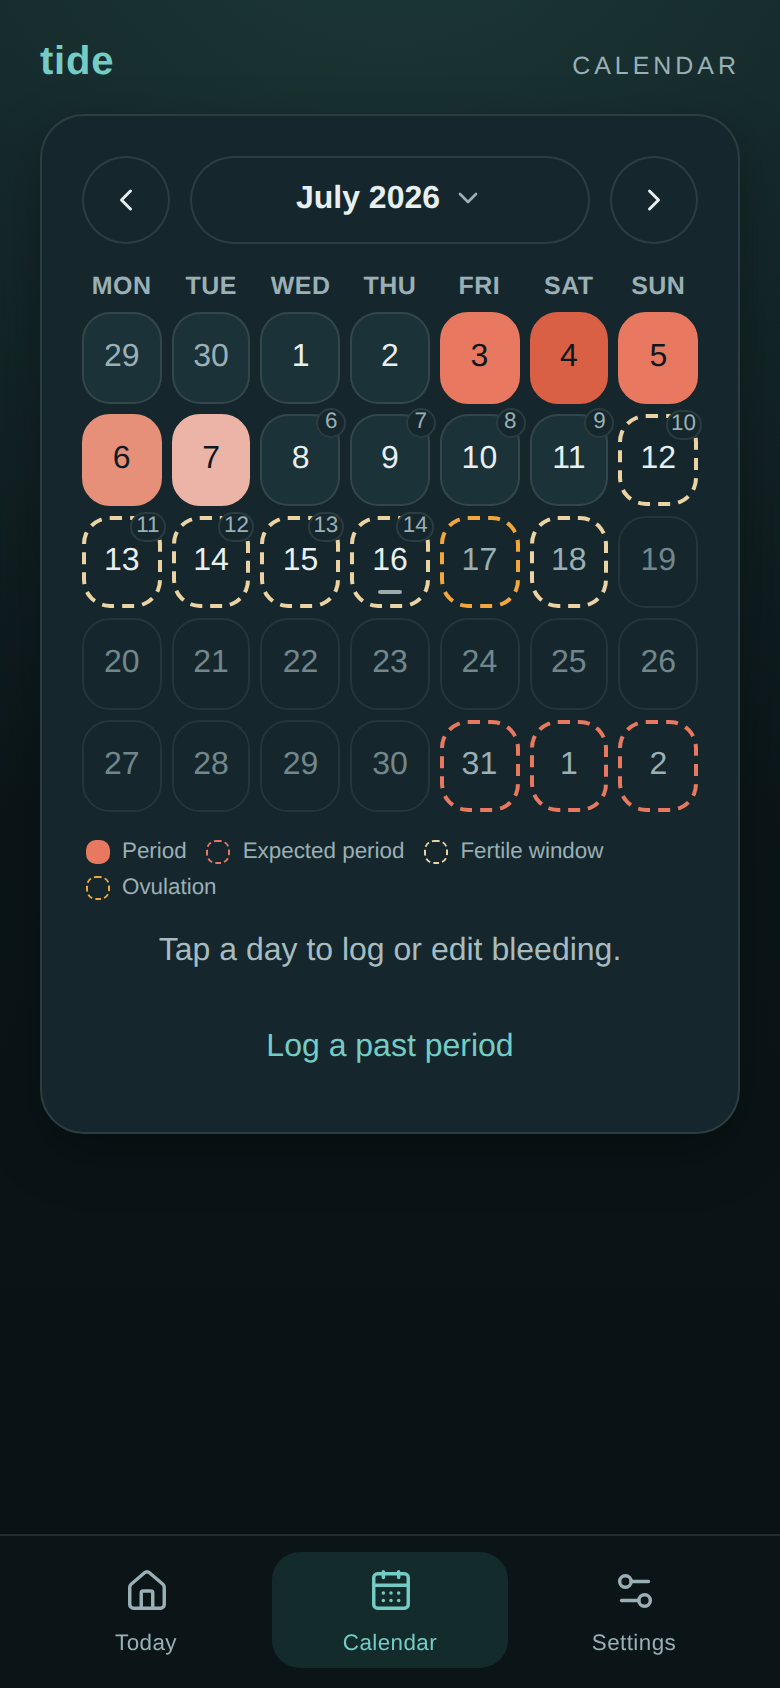
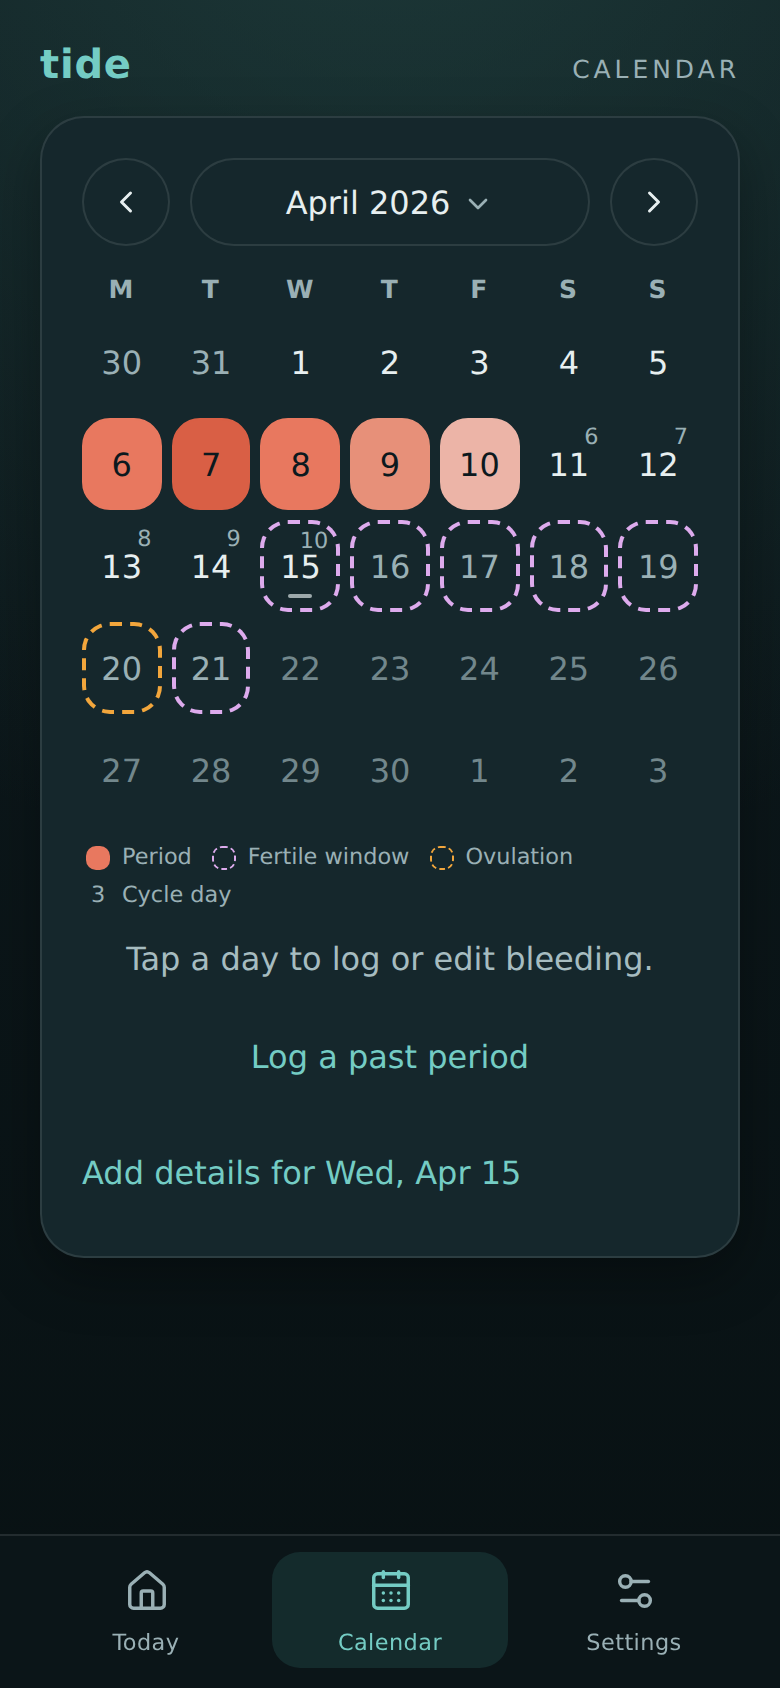
feat(theme): violet fertile window and a brighter ovulation orange
- A yellow outline dark enough for 3:1 on the white card turns olive or brown, and the light-mode fertile (#8a7a20) and ovulation (#c2610f) outlines looked alike. Fertile is now violet (#b454d4, lilac #ddabed in dark) and ovulation #d45d00. Each outline still clears 3.9:1 on the card and 3.3:1 on the darkest ground.
- The README Calendar screenshots show the new grid and colours.
- CycleDial uses Math.max for the preview's start index (biome useMathMinMax).

diff --git a/src/styles/tokens.css b/src/styles/tokens.css
@@ -41,14 +41,15 @@
     /* Cycle phases */
     --cycle-period: var(--bleed);
     --cycle-ovulation: #e8a24b;
-    --cycle-fertile: #f4d6a8;
+    --cycle-fertile: #ecd2f5;
     --cycle-idle: rgba(84, 123, 121, 0.4);
-    /* Estimates are dashed outlines, never fills. Sand and amber are too pale
+    /* Estimates are dashed outlines, never fills. Lilac and amber are too pale
        for a line on the light ground, so their outlines take deeper shades:
-       each clears 4.1:1 on the white card and 3.4:1 on the darkest ground. */
+       each clears 3.9:1 on the white card and 3.3:1 on the darkest ground. A
+       yellow that dark turns brown, so the fertile window is violet. */
     --estimate-period: var(--bleed-strong);
-    --estimate-fertile: #8a7a20;
-    --estimate-ovulation: #c2610f;
+    --estimate-fertile: #b454d4;
+    --estimate-ovulation: #d45d00;
     /* Text on the warm cycle fills — they stay light in both themes, so this
        stays near-black in both themes (not overridden in the dark block) to
        clear AA on coral, sand, and amber. */
@@ -126,10 +127,10 @@
     --flow-medium: #e2745c;
     --flow-heavy: #d95f45;
 
-    /* Fertile a pale warm sand, ovulation a saturated amber — clearly apart
-       from each other and from coral on the dark ground. */
+    /* Fertile a pale lilac, ovulation a saturated amber: clearly apart from
+       each other and from coral on the dark ground. */
     --cycle-ovulation: #f2a63c;
-    --cycle-fertile: #ecd3a4;
+    --cycle-fertile: #ddabed;
     --cycle-idle: rgba(194, 238, 234, 0.3);
     /* On the dark ground the fills themselves are bright enough for a line. */
     --estimate-period: var(--bleed);

diff --git a/src/features/today/CycleDial.tsx b/src/features/today/CycleDial.tsx
@@ -253,7 +253,7 @@ export function CycleDial({ forecast, phaseLabel, intensityByDay, today }: Cycle
 
   function stepPreview(step: number) {
     setPreviewState(({ index }) => {
-      const from = typeof index === "number" ? index : currentIndex >= 0 ? currentIndex : 0;
+      const from = typeof index === "number" ? index : Math.max(currentIndex, 0);
       return {
         index: Math.min(Math.max(from + step, 0), maxIndex),
         angle: null,
@@ -334,7 +334,7 @@ export function CycleDial({ forecast, phaseLabel, intensityByDay, today }: Cycle
       <CycleLegend
         className="cycle-dial__legend"
         // The key only names colours the ring actually shows: no coral dot
-        // over an all-grey first-run ring, no sand or amber without an
+        // over an all-grey first-run ring, no lilac or amber without an
         // ovulation estimate.
         showPeriod={Object.keys(intensityByDay).length > 0}
         showExpected={hasPrediction}

diff --git a/DESIGN.md b/DESIGN.md
@@ -12,9 +12,9 @@ colors:
   flow-spotting: "#f0c1b6"
   flow-light: "#e89a88"
   amber: "#e8a24b"
-  sand: "#f4d6a8"
-  amber-line: "#c2610f"
-  sand-line: "#8a7a20"
+  lilac: "#ecd2f5"
+  amber-line: "#d45d00"
+  violet-line: "#b454d4"
   sea-idle: "rgba(84, 123, 121, 0.4)"
   ink: "#14303a"
   ink-soft: "#486069"
@@ -138,7 +138,7 @@ components:
 Picture a still pool of cool water with white surfaces floating on it. Navigation, labels
 and controls are calm teal and sea-grey, and cards sit on a faint gradient ground under
 wide, soft shadows. Only one warm colour breaks the calm: coral, for the body's own signal
-and nothing else. Sand and amber sit next to it, for the fertile window and ovulation.
+and nothing else. Lilac and amber sit next to it, for the fertile window and ovulation.
 
 Nothing is in a hurry: big rounded corners, 160 ms transitions, and one expressive element,
 the cycle dial on Today. Everything else stays in the background so the eye lands there
@@ -173,10 +173,11 @@ first. Dark mode is the same pool at night, tuned again rather than inverted.
 ### Tertiary
 
 - **Amber** (`amber`): the ovulation estimate.
-- **Sand** (`sand`): the fertile window.
-- **Amber Line** / **Sand Line** (`amber-line`, `sand-line`): the same two estimates as
-  outlines in the light theme, where amber and sand are too pale for a line. Dark uses
-  amber and sand themselves.
+- **Lilac** (`lilac`): the fertile window.
+- **Amber Line** / **Violet Line** (`amber-line`, `violet-line`): the same two estimates as
+  outlines in the light theme, where amber and lilac are too pale for a line. A yellow dark
+  enough for a 3:1 line turns brown, which is why the fertile window is violet. Dark uses
+  amber and a brighter lilac themselves.
 - **Sea Idle** (`sea-idle`): the ordinary days on the dial ring.
 
 ### Neutral
@@ -187,7 +188,7 @@ first. Dark mode is the same pool at night, tuned again rather than inverted.
   sizes.
 - **Ink on Solid**: white, on the solid deep-tide fills (the commit button, a switch that
   is on). Deep tide stays deep in dark mode, so this stays white too.
-- **Ink on Fill**: near-black text on coral, sand and amber. One value for both themes,
+- **Ink on Fill**: near-black text on coral, lilac and amber. One value for both themes,
   because those fills stay light in both.
 - **Surface** / **Soft Surface** / **Surface Border**: card white, inset panel, hairline.
 - **Ground**: the page gradient under a radial teal halo.
@@ -363,7 +364,7 @@ names the colours the ring is actually showing.
 ### Calendar grid
 
 Seven columns of rounded-square day buttons. Logged days fill with their flow-ramp colour.
-Expected, fertile and ovulation days are dashed outlines in coral, sand and amber, with no
+Expected, fertile and ovulation days are dashed outlines in coral, violet and amber, with no
 fill. Logged days from the next or previous month keep a lighter fill. Their estimates keep
 the full outline, because a lighter one would drop below 3:1. Today gets a short underscore
 in `currentColor`, and the selected day a teal ring. A newly logged day pulses once, unless

diff --git a/CHANGELOG.md b/CHANGELOG.md
@@ -59,6 +59,8 @@ adheres to [Semantic Versioning](https://semver.org/spec/v2.0.0.html).
 
 - The calendar is quieter: a day with nothing logged is a plain number, and the cycle-day
   number sits small inside the day's corner instead of in a bubble, with its own legend entry.
+- The fertile window is violet instead of olive, and ovulation a brighter orange, on the
+  dial and the calendar, so the two no longer look alike or brown.
 - "Add details" on the calendar names its day, and adds details for the day you last picked.
 - The privacy statement names Cloudflare as the host without naming the product,
   since the app moves from Cloudflare Pages to a Cloudflare Worker.
